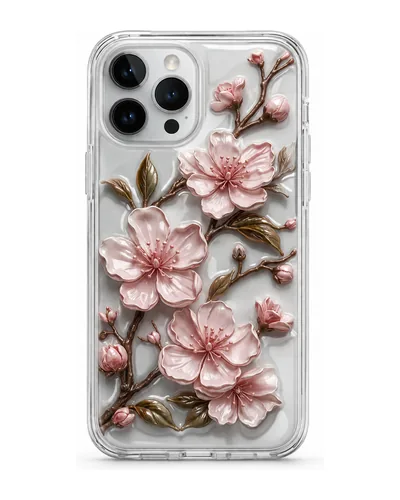
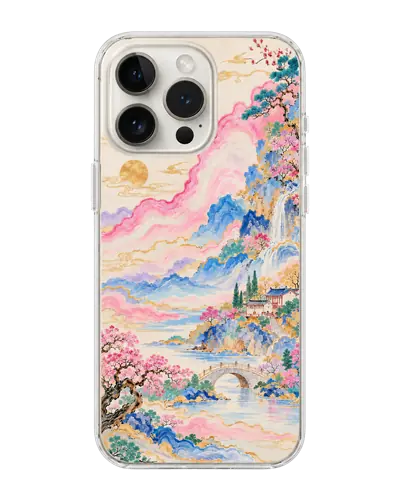
feat(produits): nouveau visuel de coque, paysage peint
Remplace la coque à fleurs de cerisier, utilisée par tous les produits de
démonstration, par le rendu au paysage peint.

Les deux autres visuels (produit-exemple-b et -c) étaient des vues de la
MÊME coque fleurie. Les garder aurait laissé l'ancien modèle sur les
deuxième et troisième images de la fiche, alors que le nouveau rendu est
seul. Ils sont donc supprimés, ainsi que les blocs `gallery:` qui les
listaient : la fiche montre une image, sans vignettes ni flèches, plutôt que
trois fois la même.

Cadrage repris à l'identique de l'ancien visuel (la coque occupe 87,7 % de
la hauteur, centrée dans un cadre 4:5), pour que rien ne bouge dans la
grille de la boutique ni sur la fiche. Aucun agrandissement : la coque garde
la définition du fichier d'origine. Le fond reste transparent, ce que le
`mix-blend-mode: multiply` de la galerie gère aussi bien que l'ancien fond
blanc.

L'attribut `sizes` tenait compte d'une colonne de vignettes qui n'existe
plus ici : il devient conditionnel. Sans vignettes, la photo récupère leurs
88 px et devient plus large ; annoncer l'ancienne valeur faisait servir un
fichier trop léger, donc flou.

Textes alternatifs réécrits en français, anglais et allemand : ils
décrivaient des fleurs de cerisier en relief.

Vérifié : 566 références d'images et de feuilles de style dans les pages
construites, aucune manquante ; fiche produit en bureau et en mobile, grille
de la boutique et sélection de la page d'accueil.

diff --git a/src/content/products/produit-exemple.md b/src/content/products/produit-exemple.md
@@ -2,12 +2,7 @@
 name: "Produit exemple"
 price: 19.90
 image: "/images/products/produit-exemple.webp"
-imageAlt: "Coque de téléphone transparente ornée de fleurs de cerisier rose en relief"
-# Galerie de démonstration (plusieurs images) : sert à tester le swipe et les
-# dots. À remplacer par de vraies photos de votre produit.
-gallery:
-  - "/images/products/produit-exemple-b.webp"
-  - "/images/products/produit-exemple-c.webp"
+imageAlt: "Coque de téléphone transparente illustrée d'un paysage peint : montagnes bleues, nuages roses et cerisiers en fleurs rehaussés d'or"
 categories: ["categorie-exemple"]
 shortDescription: "Un produit de démonstration à remplacer par votre premier vrai produit."
 featured: true

diff --git a/src/content/products/de/produit-exemple.md b/src/content/products/de/produit-exemple.md
@@ -2,7 +2,7 @@
 name: "Beispielprodukt"
 price: 19.90
 image: "/images/products/produit-exemple.webp"
-imageAlt: "Transparente Handyhülle mit erhabenen rosa Kirschblüten"
+imageAlt: "Transparente Handyhülle mit gemalter Landschaft: blaue Berge, rosa Wolken und blühende Kirschbäume mit Goldakzenten"
 categories: ["categorie-exemple"]
 shortDescription: "Ein Demo-Produkt, das du durch dein erstes echtes Produkt ersetzt."
 featured: true

diff --git a/src/content/products/en/produit-exemple.md b/src/content/products/en/produit-exemple.md
@@ -2,7 +2,7 @@
 name: "Example product"
 price: 19.90
 image: "/images/products/produit-exemple.webp"
-imageAlt: "Clear phone case with raised pink cherry blossom detailing"
+imageAlt: "Clear phone case with a painted landscape: blue mountains, pink clouds and blossoming cherry trees touched with gold"
 categories: ["categorie-exemple"]
 shortDescription: "A demo product to replace with your first real product."
 featured: true

diff --git a/src/content/products/produit-test-noir-cadre.md b/src/content/products/produit-test-noir-cadre.md
@@ -14,9 +14,6 @@
 name: "Produit test - bouton noir a cadre"
 price: 19.90
 image: "/images/products/produit-exemple.webp"
-gallery:
-  - "/images/products/produit-exemple-b.webp"
-  - "/images/products/produit-exemple-c.webp"
 imageAlt: "Produit de démonstration du bouton noir à cadre"
 categories: []
 shortDescription: "Page de test A/B : bouton noir en relief dont un cadre fin se dessine depuis les coins au survol."

diff --git a/src/content/products/produit-test-noir-plat.md b/src/content/products/produit-test-noir-plat.md
@@ -12,9 +12,6 @@
 name: "Produit test - bouton noir plat"
 price: 19.90
 image: "/images/products/produit-exemple.webp"
-gallery:
-  - "/images/products/produit-exemple-b.webp"
-  - "/images/products/produit-exemple-c.webp"
 imageAlt: "Produit de démonstration du bouton noir plat"
 categories: []
 shortDescription: "Page de test A/B : bouton noir plat, sans relief, avec flèche qui glisse au survol."

diff --git a/src/content/products/produit-test-noir.md b/src/content/products/produit-test-noir.md
@@ -14,9 +14,6 @@
 name: "Produit test - bouton noir"
 price: 19.90
 image: "/images/products/produit-exemple.webp"
-gallery:
-  - "/images/products/produit-exemple-b.webp"
-  - "/images/products/produit-exemple-c.webp"
 imageAlt: "Produit de démonstration du bouton noir"
 categories: []
 shortDescription: "Page de test A/B : bouton « Ajouter au panier » en noir, à comparer à la version violette."

diff --git a/src/content/products/produit-test-blob.md b/src/content/products/produit-test-blob.md
@@ -11,9 +11,6 @@
 name: "Produit test - bouton blob"
 price: 19.90
 image: "/images/products/produit-exemple.webp"
-gallery:
-  - "/images/products/produit-exemple-b.webp"
-  - "/images/products/produit-exemple-c.webp"
 imageAlt: "Produit de démonstration du bouton blob"
 categories: []
 shortDescription: "Page de test A/B : bouton « blob glassmorphism » à comparer au bouton dégradé standard."

diff --git a/src/content/products/produit-exemple-3.md b/src/content/products/produit-exemple-3.md
@@ -3,9 +3,6 @@ name: "Coque Marbre"
 price: 22.90
 compareAtPrice: 29.90
 image: "/images/products/produit-exemple.webp"
-gallery:
-  - "/images/products/produit-exemple-b.webp"
-  - "/images/products/produit-exemple-c.webp"
 imageAlt: "Coque de téléphone effet marbre veiné"
 categories: ["categorie-exemple"]
 shortDescription: "Produit de démonstration (duplicata) pour visualiser la grille."

diff --git a/src/content/products/produit-test-noir-lueur.md b/src/content/products/produit-test-noir-lueur.md
@@ -12,9 +12,6 @@
 name: "Produit test - bouton noir a lueur"
 price: 19.90
 image: "/images/products/produit-exemple.webp"
-gallery:
-  - "/images/products/produit-exemple-b.webp"
-  - "/images/products/produit-exemple-c.webp"
 imageAlt: "Produit de démonstration du bouton noir à lueur"
 categories: []
 shortDescription: "Page de test A/B : bouton noir dont la lueur suit le curseur au survol."

diff --git a/src/content/products/produit-exemple-5.md b/src/content/products/produit-exemple-5.md
@@ -2,9 +2,6 @@
 name: "Coque Ivoire"
 price: 21.90
 image: "/images/products/produit-exemple.webp"
-gallery:
-  - "/images/products/produit-exemple-b.webp"
-  - "/images/products/produit-exemple-c.webp"
 imageAlt: "Coque de téléphone ivoire à motif floral en relief"
 categories: ["categorie-exemple"]
 shortDescription: "Produit de démonstration (duplicata) pour visualiser la grille."

diff --git a/src/content/products/produit-exemple-2.md b/src/content/products/produit-exemple-2.md
@@ -2,9 +2,6 @@
 name: "Coque Vague"
 price: 24.90
 image: "/images/products/produit-exemple.webp"
-gallery:
-  - "/images/products/produit-exemple-b.webp"
-  - "/images/products/produit-exemple-c.webp"
 imageAlt: "Coque de téléphone à motif de vagues sculptées"
 categories: ["categorie-exemple"]
 shortDescription: "Produit de démonstration (duplicata) pour visualiser la grille."

diff --git a/src/content/products/produit-exemple-4.md b/src/content/products/produit-exemple-4.md
@@ -2,9 +2,6 @@
 name: "Coque Onyx"
 price: 26.90
 image: "/images/products/produit-exemple.webp"
-gallery:
-  - "/images/products/produit-exemple-b.webp"
-  - "/images/products/produit-exemple-c.webp"
 imageAlt: "Coque de téléphone noire à relief floral"
 categories: ["categorie-exemple"]
 shortDescription: "Produit de démonstration (duplicata) pour visualiser la grille."
